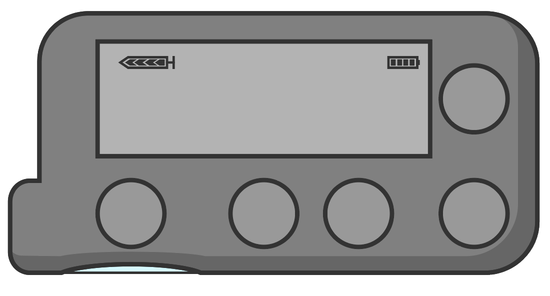
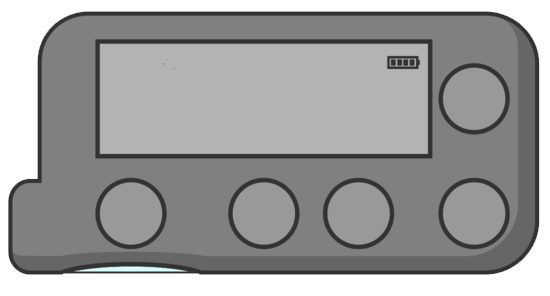
gui edits

diff --git a/Rts/src/view/PumpView.java b/Rts/src/view/PumpView.java
@@ -52,17 +52,18 @@ public class PumpView {
 	JButton Reservoir = new JButton("");
 	JLabel Clock = new JLabel(MyTime.toString());
 	JLabel SysDebug = new JLabel("debug");
+	private final JLabel gifimg = new JLabel("");
 	
 	
 	private void initialize() {
 		frame = new JFrame();
-		frame.setBounds(100, 100, 741, 565);
+		frame.setBounds(100, 100, 923, 554);
 		frame.setDefaultCloseOperation(JFrame.EXIT_ON_CLOSE);
 		frame.getContentPane().setLayout(null);
 		
 		
 		Clock.setFont(new Font("Tahoma", Font.PLAIN, 27));
-		Clock.setBounds(318, 117, 70, 33);
+		Clock.setBounds(318, 139, 70, 33);
 		frame.getContentPane().add(Clock);
 		
 		Image image = new ImageIcon(this.getClass().getResource("/circular-biscuits.png")).getImage();
@@ -73,7 +74,7 @@ public class PumpView {
 				human.addSuger(60);
 			}
 		});
-		BisBtn.setBounds(501, 431, 95, 62);
+		BisBtn.setBounds(392, 431, 95, 62);
 		frame.getContentPane().add(BisBtn);
 		
 		Image image1 = new ImageIcon(this.getClass().getResource("/carbs.png")).getImage();
@@ -84,11 +85,15 @@ public class PumpView {
 				human.addSuger(50);
 			}
 		});
-		CarbsBtn.setBounds(609, 431, 95, 62);
+		CarbsBtn.setBounds(502, 431, 95, 62);
 		
 		frame.getContentPane().add(CarbsBtn);
 		
 		Image image3 = new ImageIcon(this.getClass().getResource("/res.png")).getImage();
+		Reservoir.addActionListener(new ActionListener() {
+			public void actionPerformed(ActionEvent e) {
+			}
+		});
 		Reservoir.setHorizontalAlignment(SwingConstants.LEFT);
 		Reservoir.setIcon(new ImageIcon(image3));
 		
@@ -97,33 +102,41 @@ public class PumpView {
 		
 		JLabel lblLastDose = new JLabel("Last Dose:");
 		lblLastDose.setFont(new Font("Tahoma", Font.PLAIN, 22));
-		lblLastDose.setBounds(164, 144, 104, 27);
+		lblLastDose.setBounds(186, 176, 104, 27);
 		frame.getContentPane().add(lblLastDose);
 		
 		
 		LastDose.setFont(new Font("Tahoma", Font.PLAIN, 22));
-		LastDose.setBounds(273, 144, 104, 27);
+		LastDose.setBounds(295, 176, 104, 27);
 		frame.getContentPane().add(LastDose);
 		SysMsg.setHorizontalAlignment(SwingConstants.CENTER);
 		
 		
 		SysMsg.setFont(new Font("Tahoma", Font.PLAIN, 28));
-		SysMsg.setBounds(164, 175, 323, 34);
+		SysMsg.setBounds(175, 210, 323, 34);
 		frame.getContentPane().add(SysMsg);
 		
 		Image image2 = new ImageIcon(this.getClass().getResource("/device.png")).getImage();
 		imgback.setIcon(new ImageIcon(image2));
 		imgback.setHorizontalAlignment(SwingConstants.CENTER);
 		imgback.setFont(new Font("Tahoma", Font.PLAIN, 28));
-		imgback.setBounds(56, 99, 560, 237);
+		imgback.setBounds(56, 99, 587, 285);
 		
 		frame.getContentPane().add(imgback);
 		
 		
 		SysDebug.setHorizontalAlignment(SwingConstants.CENTER);
 		SysDebug.setFont(new Font("Tahoma", Font.PLAIN, 28));
-		SysDebug.setBounds(15, 459, 356, 34);
+		SysDebug.setBounds(15, 448, 356, 34);
 		frame.getContentPane().add(SysDebug);
+		
+		Image image4 = new ImageIcon(this.getClass().getResource("/notpump.gif")).getImage();
+		gifimg.setIcon(new ImageIcon(image4));
+		gifimg.setHorizontalAlignment(SwingConstants.CENTER);
+		gifimg.setFont(new Font("Tahoma", Font.PLAIN, 28));
+		gifimg.setBounds(639, 96, 247, 201);
+		
+		frame.getContentPane().add(gifimg);
 		
 		
 		
@@ -142,4 +155,19 @@ public class PumpView {
 	public void SetLastDose(int LateDose) {
 		LastDose.setText(Integer.toString(LateDose));
 	}
+	
+	public void Pumping() {
+		Image image4 = new ImageIcon(this.getClass().getResource("/pump.gif")).getImage();
+		gifimg.setIcon(new ImageIcon(image4));
+	}
+	public void notPumping() {
+		Image image4 = new ImageIcon(this.getClass().getResource("/notpump.gif")).getImage();
+		gifimg.setIcon(new ImageIcon(image4));
+	}
+	
+	public void BtnState (boolean state) {
+		BisBtn.setEnabled(state);
+		CarbsBtn.setEnabled(state);
+	}
+	
 }
